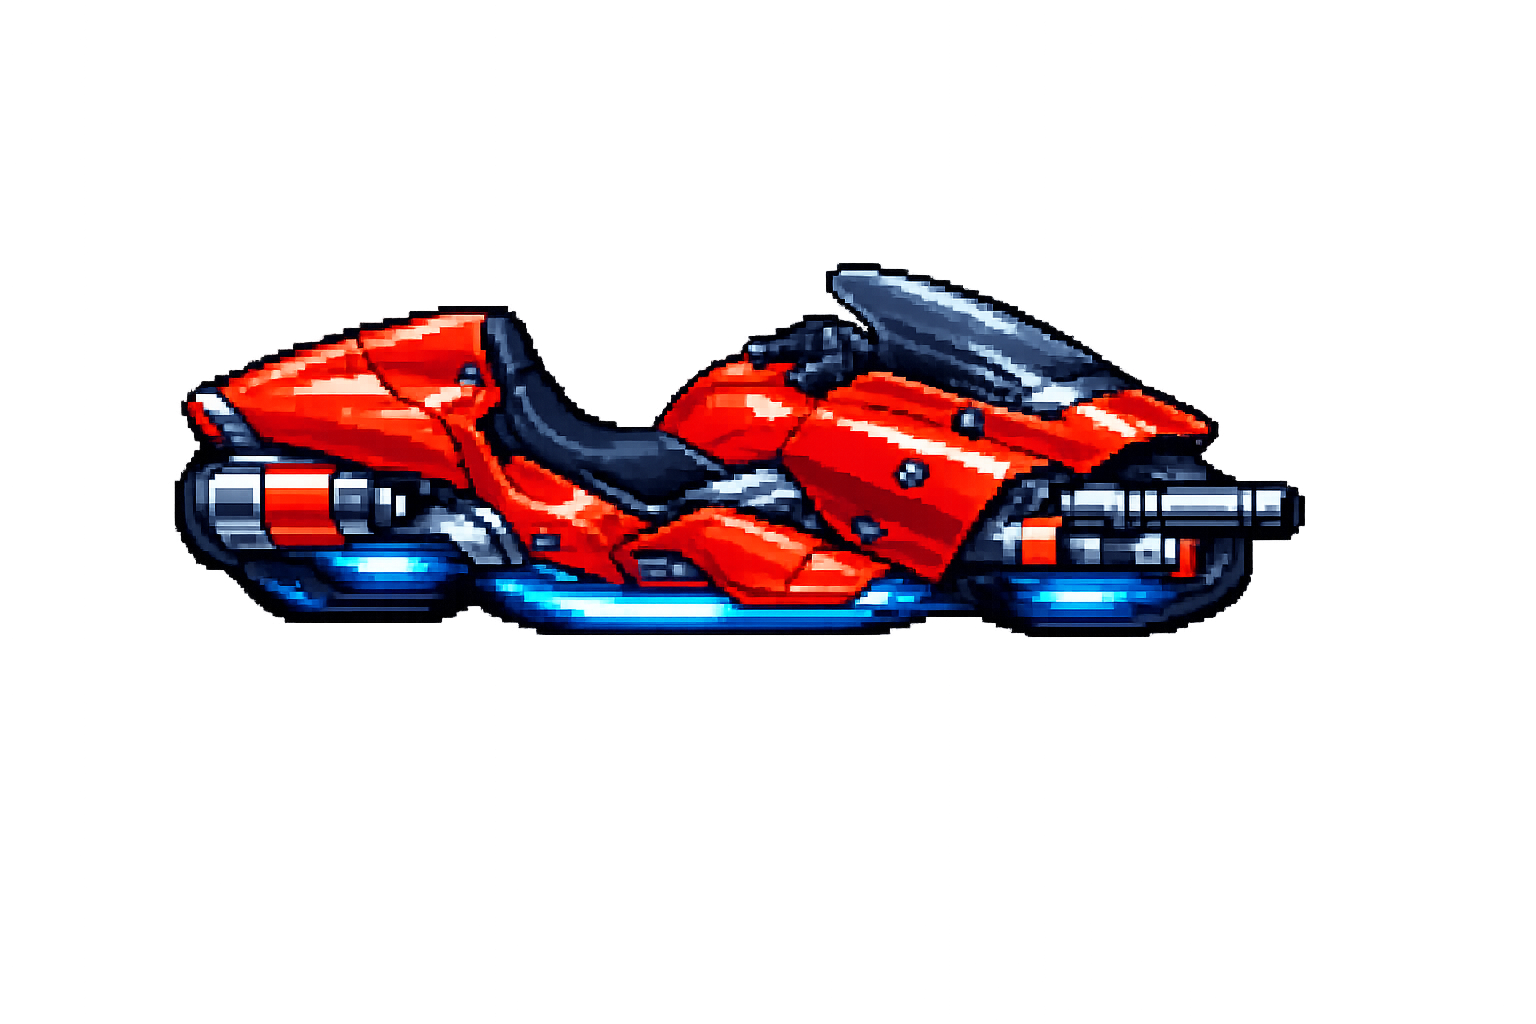
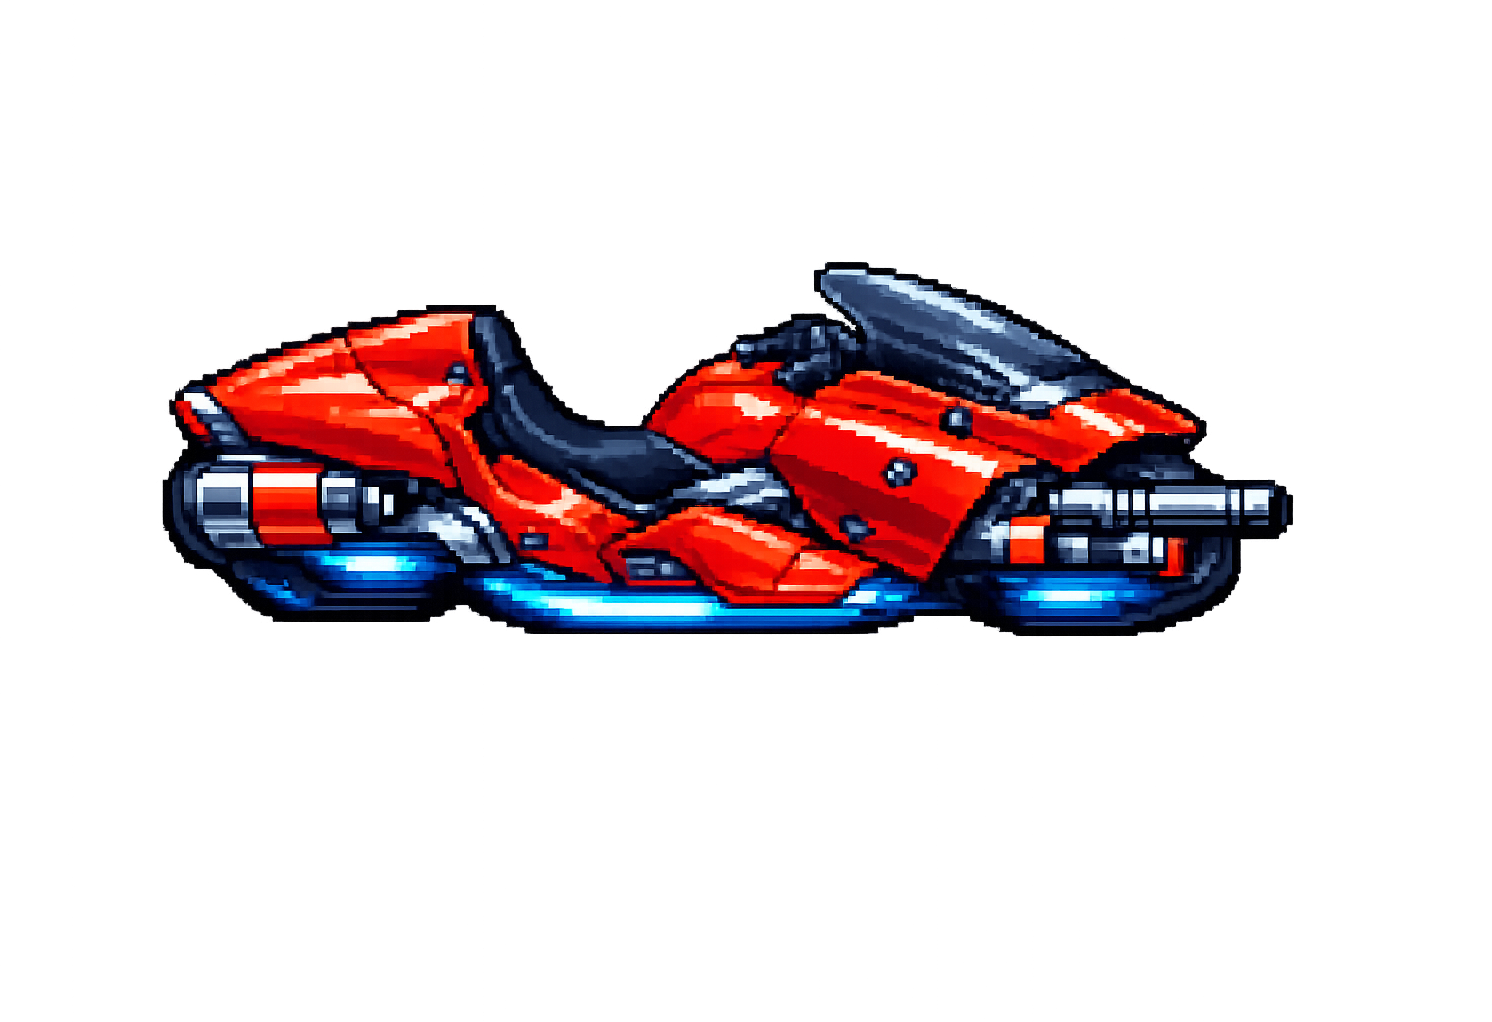
Integrate custom bike/flycar/boss sprites + 1.5x render resolution
- Wire user-provided high-res sprites (bike, flycar, boss) into the vehicles and
  boss, smooth-downscaled; code-drawn versions kept as fallback.
- Boss white background flood-filled to transparent; bike/flycar auto-cropped.
- Render at 1.5x supersample (720x405 backing) for crisper pixels/effects while
  keeping all gameplay coordinates in logical 480x270 (same framing, no rescale).
- Detailed sprites use smoothing on; pixel-art sprites stay crisp.

Claude-Session: https://claude.ai/code/session_01SJZZb3W1JdvnemtxdEnuo7

Changed region(s): [[0.0925, 0.2427, 0.8941, 0.637]]

diff --git a/game.js b/game.js
@@ -6,11 +6,13 @@
 (function () {
   "use strict";
 
-  const VW = 480, VH = 270;
+  const VW = 480, VH = 270;          // logical game units (unchanged)
+  const RS = 1.5;                    // render supersample: draw into a 1.5x backing for crisper pixels
   const GROUND_Y = 222;
   const GRAVITY = 0.55;
 
   const canvas = document.getElementById("screen");
+  canvas.width = Math.round(VW * RS); canvas.height = Math.round(VH * RS);
   const ctx = canvas.getContext("2d");
   ctx.imageSmoothingEnabled = false;
 
@@ -31,6 +33,9 @@
     enemy_drone:   { src: "assets/enemy_drone.png",   fw: 32 },
     enemy_charger: { src: "assets/enemy_charger.png",  fw: 52 },
     coin:          { src: "assets/coin.png",          fw: 32 },
+    bike:          { src: "assets/bike.png",   detailed: true },
+    flycar:        { src: "assets/flycar.png", detailed: true },
+    boss:          { src: "assets/boss.png",   detailed: true },
     bg_level1:     { src: "assets/bg_level1.png" },
     bg_level2:     { src: "assets/bg_level2.png" },
     bg_level3:     { src: "assets/bg_level3.png" }
@@ -49,6 +54,18 @@
     dx = Math.round(dx); dy = Math.round(dy);
     if (flip) { ctx.save(); ctx.translate(dx + dw, dy); ctx.scale(-1, 1); ctx.drawImage(im, fi * fw, 0, fw, fh, 0, 0, dw, dh); ctx.restore(); }
     else ctx.drawImage(im, fi * fw, 0, fw, fh, dx, dy, dw, dh);
+    return true;
+  }
+  // Draw a whole high-res sprite into a box, preserving aspect, smooth-downscaled.
+  // anchor: "bottom" aligns base to (cx, by); "center" centers on (cx, by).
+  function drawWhole(key, cx, by, targetH, flip, anchor) {
+    const im = IMG[key]; if (!im || !im._ok || !im.naturalWidth) return false;
+    const aspect = im.naturalWidth / im.naturalHeight, dh = targetH, dw = dh * aspect;
+    const dx = Math.round(cx - dw / 2), dy = Math.round(anchor === "center" ? by - dh / 2 : by - dh);
+    ctx.imageSmoothingEnabled = true;
+    if (flip) { ctx.save(); ctx.translate(dx + dw, dy); ctx.scale(-1, 1); ctx.drawImage(im, 0, 0, dw, dh); ctx.restore(); }
+    else ctx.drawImage(im, dx, dy, dw, dh);
+    ctx.imageSmoothingEnabled = false;
     return true;
   }
 
@@ -873,6 +890,7 @@
   //  Rendering
   // ============================================================
   function draw() {
+    ctx.setTransform(RS, 0, 0, RS, 0, 0);   // 1.5x supersample base transform (logical coords unchanged)
     drawBackdrop();
     const sx = shake ? (Math.random() * 2 - 1) * shake : 0, sy = shake ? (Math.random() * 2 - 1) * shake : 0;
     ctx.save(); ctx.translate(-Math.round(camX) + Math.round(sx), Math.round(sy));
@@ -1076,8 +1094,26 @@
     ctx.fillStyle = "#ffd23f"; ctx.font = "bold 12px monospace"; ctx.textAlign = "center"; ctx.textBaseline = "middle"; ctx.fillText(pk.kind, pk.x + 8, y + 9);
   }
 
+  function drawVehicleDecor(type, x, y, w, h, f, hp, hpMax, mounted) {
+    if (mounted) {   // rider tucked onto the seat
+      ctx.fillStyle = "#2e7d4f"; ctx.fillRect(x + w / 2 - 3, y - 4, 7, 8);
+      ctx.fillStyle = "#f0c090"; ctx.fillRect(x + w / 2 - 2, y - 9, 5, 5);
+      ctx.fillStyle = "#c0392b"; ctx.fillRect(x + w / 2 - 3, y - 10, 7, 2);
+    } else if (Math.abs((player.x + player.w / 2) - (x + w / 2)) < 60) {
+      ctx.fillStyle = "#ffd23f"; ctx.font = "bold 9px Trebuchet MS, sans-serif"; ctx.textAlign = "center";
+      ctx.fillText(Math.floor(frame / 20) % 2 ? "RIDE (F)" : "▲ RIDE", x + w / 2, y - 14); ctx.textAlign = "left";
+    }
+    if (hpMax) { ctx.fillStyle = "#5fe07a"; for (let i = 0; i < hp; i++) ctx.fillRect(x + 2 + i * 4, y - (mounted ? 14 : 2), 3, 2); }
+  }
   function drawVehicleAt(type, x, y, w, h, f, hp, hpMax, mounted) {
     x = Math.round(x); y = Math.round(y);
+    const key = type === "flycar" ? "flycar" : "bike";
+    if (IMG[key] && IMG[key]._ok) {
+      if (type === "flycar") drawWhole(key, x + w / 2, y + h / 2, h * 1.85, f < 0, "center");
+      else drawWhole(key, x + w / 2, y + h + 3, h * 1.7, f < 0, "bottom");
+      drawVehicleDecor(type, x, y, w, h, f, hp, hpMax, mounted);
+      return;
+    }
     if (type === "bike") {
       // wheels
       ctx.fillStyle = "#15171c"; ctx.beginPath(); ctx.arc(x + 9, y + h - 4, 6, 0, 7); ctx.arc(x + w - 9, y + h - 4, 6, 0, 7); ctx.fill();
@@ -1273,6 +1309,15 @@
   }
 
   function drawBoss() {
+    if (IMG.boss && IMG.boss._ok) {
+      const flip = player.x > boss.x + boss.w;        // art faces left; flip if player is on the right
+      drawWhole("boss", boss.x + boss.w / 2, boss.y + boss.h + 4, boss.h * 1.7, flip, "bottom");
+      if (boss.pulse > 0) {   // hit flash
+        ctx.globalAlpha = boss.pulse / 30; ctx.fillStyle = "#ffffff";
+        ctx.fillRect(boss.x - 30, boss.y - 30, boss.w + 60, boss.h + 40); ctx.globalAlpha = 1;
+      }
+      return;
+    }
     const x = Math.round(boss.x), y = Math.round(boss.y), w = boss.w, h = boss.h, f = player.x < boss.x ? -1 : 1;
     const phase = boss.phase || 1;
     const hull = boss.pulse > 0 ? "#ffd0c0" : (phase === 1 ? "#4a5160" : phase === 2 ? "#5a4250" : "#5a2a2a");
